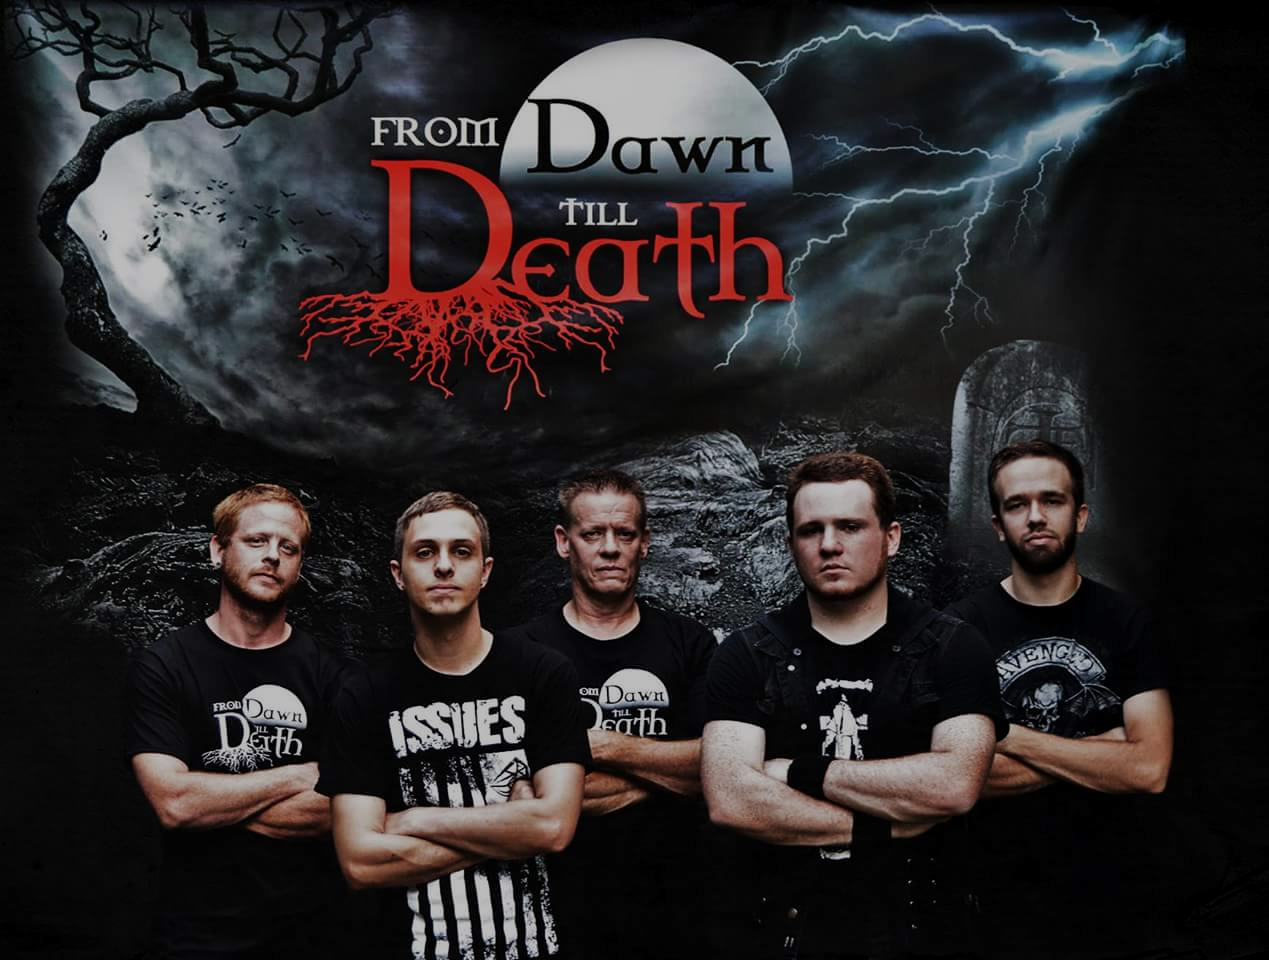
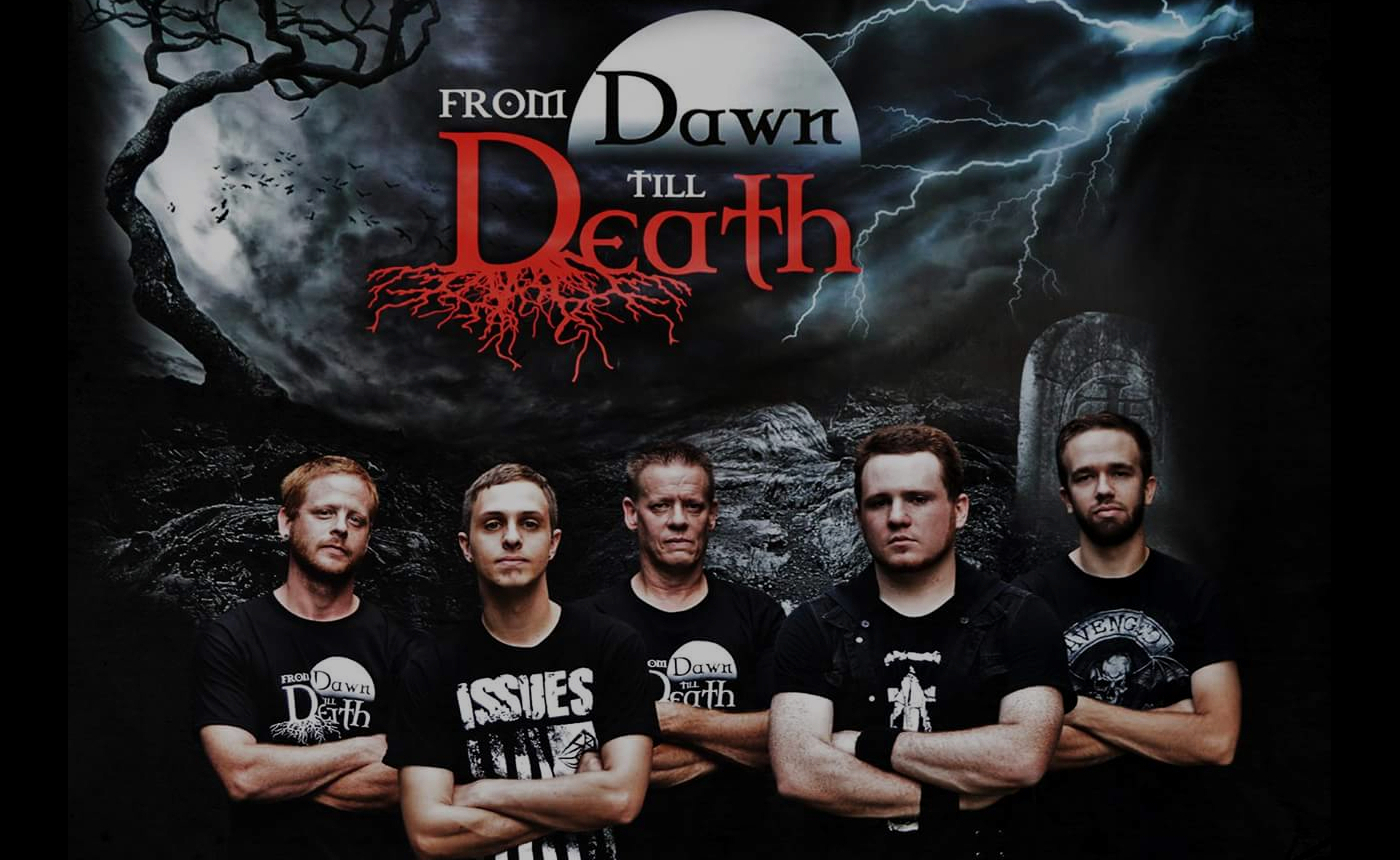
changed some whitespace and adjusted cover photos as well as removing gallery borders

diff --git a/gallery.html b/gallery.html
@@ -22,6 +22,7 @@
       <div class="navBtn"></div>
       <ul class="navMenu">
         <li><a href="index.html">Home</a></li>
+        <li><a href="upcoming.html">Upcoming Shows</a></li>
         <li><a href="gallery.html" style="color:#ffd000;">Gallery</a></li>
         <li><a href="about.html">About</a></li>
         <li><a href="contact.html">Contact</a></li>
@@ -37,7 +38,6 @@
           <a href="Images/4_Full.jpg" data-lightbox="July_2017"><img src="Images/4_Thumb.jpg"/></a>
         </div>
       </div>
-      <hr style="margin-top:60px;" />
       <h2 align="center">June 2017</h2>
       <div class="galleryBox">
         <div id="June_2017">
@@ -47,7 +47,6 @@
           <a href="Images/8_Full.jpg" data-lightbox="June_2017"><img src="Images/8_Thumb.jpg"/></a>
         </div>
       </div>
-      <hr style="margin-top:60px;" />
       <h2 align="center">May 2017</h2>
       <div class="galleryBox">
         <div id="May_2017">
@@ -57,7 +56,6 @@
           <a href="Images/4_Full.jpg" data-lightbox="May_2017"><img src="Images/4_Thumb.jpg"/></a>
         </div>
       </div>
-      <hr style="margin-top:60px;" />
       <h2 align="center">April 2017</h2>
       <div class="galleryBox">
         <div id="April_2017">

diff --git a/upcoming.html b/upcoming.html
@@ -21,7 +21,8 @@
       <img class="headerLogoLeft" src="Images/ScaledFDTDLogo.png" />
       <div class="navBtn"></div>
       <ul class="navMenu">
-        <li><a href="index.html" style="color:#ffd000;">Home</a></li>
+        <li><a href="index.html">Home</a></li>
+        <li><a href="upcoming.html" style="color:#ffd000">Upcoming Shows</a></li>
         <li><a href="gallery.html">Gallery</a></li>
         <li><a href="about.html">About</a></li>
         <li><a href="contact.html">Contact</a></li>

diff --git a/CSS/index.css b/CSS/index.css
@@ -1,5 +1,7 @@
 #FDTDCoverPic {
   max-width: 100%;
+  display: block;
+  margin: auto;
 }
 
 #venuesList {
@@ -30,13 +32,9 @@
   max-width: 100%;
   height: 500px;
   margin-top: 30px;
-  margin-bottom: 30px;
+  margin-bottom: 60px;
   padding: 10px;
   background-color: black;
-  border-top: 1px solid white;
-  border-left: 1px solid white;
-  border-bottom: 2px solid white;
-  border-right: 4px solid white;
 }
 
 .galleryBox div {

diff --git a/about.html b/about.html
@@ -22,6 +22,7 @@
       <div class="navBtn"></div>
       <ul class="navMenu">
         <li><a href="index.html">Home</a></li>
+        <li><a href="upcoming.html">Upcoming Shows</a></li>
         <li><a href="gallery.html">Gallery</a></li>
         <li><a href="about.html" style="color:#ffd000;">About</a></li>
         <li><a href="contact.html">Contact</a></li>

diff --git a/contact.html b/contact.html
@@ -22,6 +22,7 @@
       <div class="navBtn"></div>
       <ul class="navMenu">
         <li><a href="index.html">Home</a></li>
+        <li><a href="upcoming.html">Upcoming Shows</a></li>
         <li><a href="gallery.html">Gallery</a></li>
         <li><a href="about.html">About</a></li>
         <li><a href="contact.html" style="color:#ffd000;">Contact</a></li>

diff --git a/CSS/gallery.css b/CSS/gallery.css
@@ -2,13 +2,9 @@
   max-width: 100%;
   height: 500px;
   margin-top: 30px;
-  margin-bottom: 30px;
+  margin-bottom: 60px;
   padding: 10px;
   background-color: black;
-  border-top: 1px solid white;
-  border-left: 1px solid white;
-  border-bottom: 2px solid white;
-  border-right: 4px solid white;
 }
 
 .galleryBox div {

diff --git a/CSS/style.css b/CSS/style.css
@@ -5,7 +5,6 @@
   padding: 0px;
   min-height: 100%;
   width: 100%;
-  background-color: #555555;
   background-image: url('../Images/graveyard.jpg');
   background-repeat: no-repeat;
   background-attachment: fixed;
